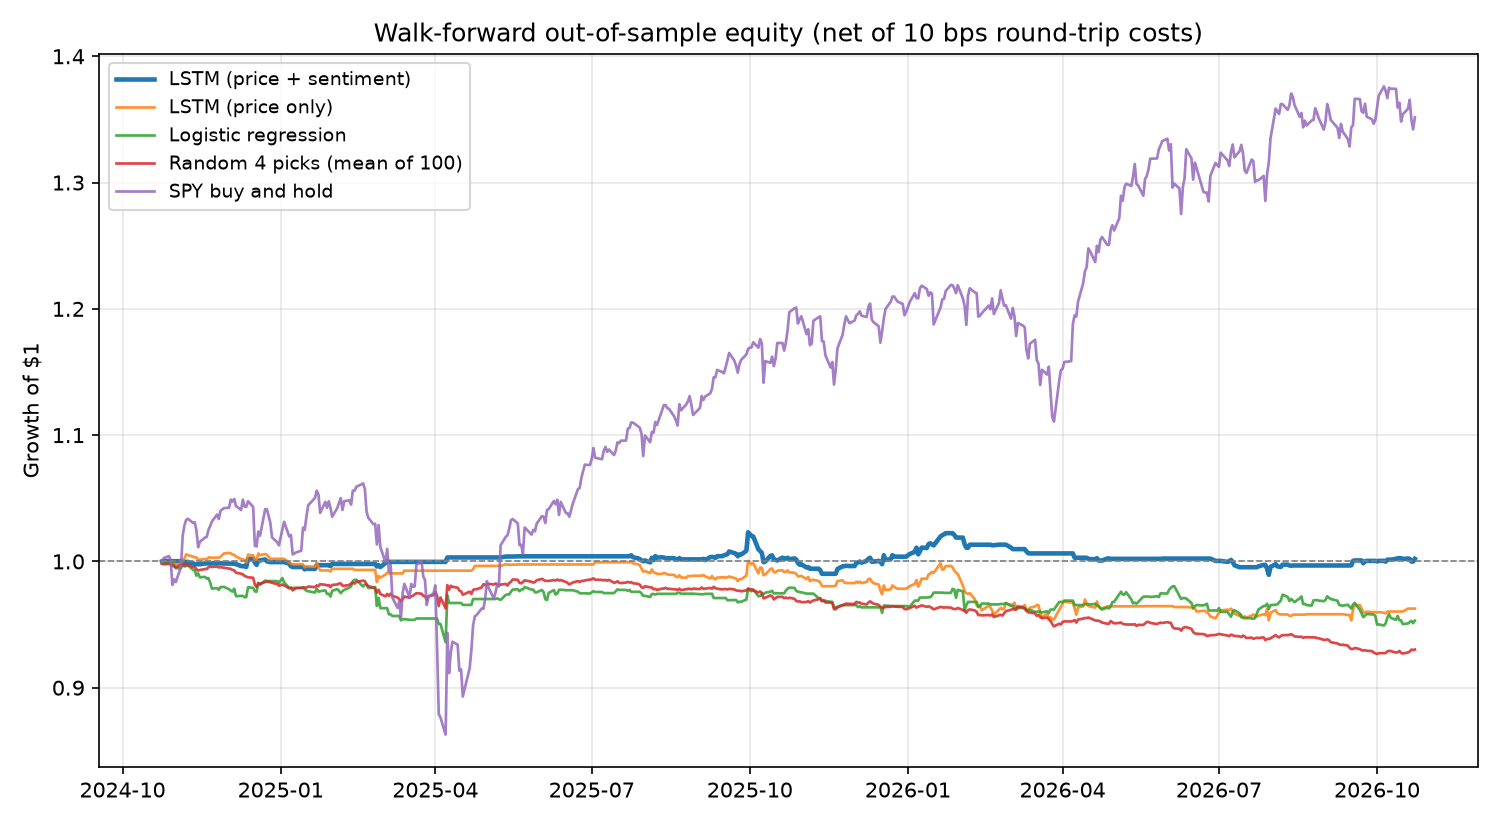
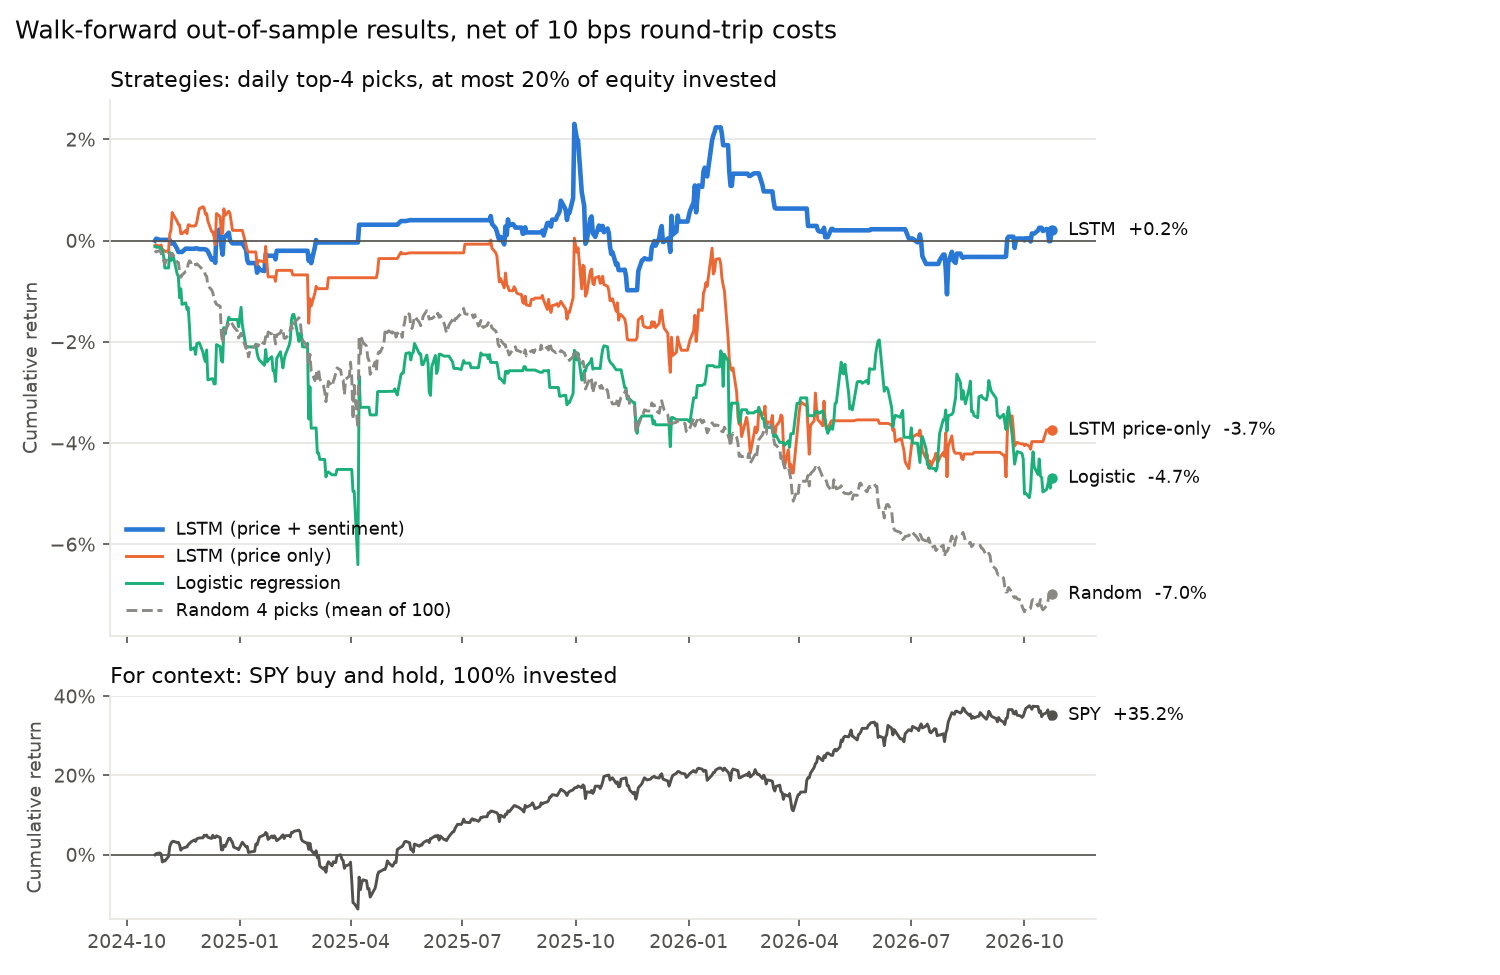
Split equity chart into strategy and SPY panels, add confidence-decile diagnostic
Report now also saves daily return series and out-of-sample predictions so
charts can be redrawn without retraining. Re-run reproduced all metrics exactly.

diff --git a/src/stockbot/reports.py b/src/stockbot/reports.py
@@ -13,6 +13,7 @@ import matplotlib
 matplotlib.use("Agg")
 import matplotlib.pyplot as plt  # noqa: E402
 import pandas as pd  # noqa: E402
+from matplotlib.ticker import PercentFormatter  # noqa: E402
 
 LABELS = {
     "lstm": "LSTM (price + sentiment)",
@@ -70,29 +71,145 @@ def metrics_table(metrics: dict[str, dict[str, Any]]) -> str:
     return "\n".join(lines)
 
 
+SHORT = {
+    "lstm": "LSTM",
+    "lstm_no_sentiment": "LSTM price-only",
+    "logreg": "Logistic",
+    "random": "Random",
+    "spy": "SPY",
+}
+STRATEGIES = ("lstm", "lstm_no_sentiment", "logreg", "random")
+COLORS = {
+    "lstm": "#2a78d6",
+    "lstm_no_sentiment": "#eb6834",
+    "logreg": "#1baf7a",
+    "random": "#8a8984",
+    "spy": "#52514e",
+}
+INK, MUTED, GRID = "#0b0b0b", "#52514e", "#e6e5e1"
+
+
+def _style(ax: plt.Axes) -> None:
+    ax.spines[["top", "right"]].set_visible(False)
+    ax.spines[["left", "bottom"]].set_color(GRID)
+    ax.tick_params(colors=MUTED, labelsize=9)
+    ax.grid(axis="y", color=GRID, linewidth=0.8)
+    ax.set_axisbelow(True)
+
+
+def _cumulative(daily: pd.Series) -> pd.Series:
+    out = (1 + daily).cumprod() - 1
+    out.index = pd.to_datetime(out.index)
+    return out * 100
+
+
+def _end_labels(ax: plt.Axes, ends: dict[str, tuple[pd.Timestamp, float]], min_gap: float) -> None:
+    """Direct-label each line at its last point, nudging labels apart so they don't collide."""
+    placed: list[float] = []
+    for key, (x, y) in sorted(ends.items(), key=lambda kv: -kv[1][1]):
+        ly = min(y, placed[-1] - min_gap) if placed else y
+        placed.append(ly)
+        ax.annotate(
+            f"{SHORT[key]}  {y:+.1f}%",
+            xy=(x, ly),
+            xytext=(8, 0),
+            textcoords="offset points",
+            va="center",
+            fontsize=8.5,
+            color=INK,
+            annotation_clip=False,
+        )
+
+
 def plot_equity(curves: dict[str, pd.Series], path: Path) -> None:
-    fig, ax = plt.subplots(figsize=(10, 5.5), dpi=150)
-    for key in LABELS:
+    """Strategies on their own scale; SPY in a separate panel so it doesn't flatten them."""
+    fig, (top, bottom) = plt.subplots(
+        2, 1, figsize=(10, 6.5), dpi=150, sharex=True, gridspec_kw={"height_ratios": [2.4, 1]}
+    )
+    ends = {}
+    for key in STRATEGIES:
         if key not in curves:
             continue
-        s = curves[key]
-        equity = (1 + s).cumprod()
-        equity.index = pd.to_datetime(equity.index)
-        style = {"linewidth": 2.2} if key == "lstm" else {"linewidth": 1.3, "alpha": 0.85}
-        ax.plot(equity.index, equity.to_numpy(), label=LABELS[key], **style)
-    ax.axhline(1.0, color="grey", linewidth=0.8, linestyle="--")
-    ax.set_title("Walk-forward out-of-sample equity (net of 10 bps round-trip costs)")
-    ax.set_ylabel("Growth of $1")
-    ax.grid(alpha=0.3)
-    ax.legend(loc="upper left", fontsize=9)
+        cum = _cumulative(curves[key])
+        lw = 2.2 if key == "lstm" else 1.4
+        ls = "--" if key == "random" else "-"
+        top.plot(cum.index, cum.to_numpy(), color=COLORS[key], lw=lw, ls=ls, label=LABELS[key])
+        top.plot(cum.index[-1], cum.iloc[-1], "o", color=COLORS[key], ms=4)
+        ends[key] = (cum.index[-1], float(cum.iloc[-1]))
+    top.axhline(0, color=MUTED, lw=0.8)
+    lo, hi = top.get_ylim()
+    _end_labels(top, ends, min_gap=(hi - lo) * 0.07)
+    top.set_title(
+        "Strategies: daily top-4 picks, at most 20% of equity invested",
+        loc="left",
+        fontsize=10.5,
+        color=INK,
+    )
+    top.set_ylabel("Cumulative return", color=MUTED, fontsize=9)
+    top.legend(loc="lower left", fontsize=8.5, frameon=False, labelcolor=INK)
+
+    if "spy" in curves:
+        spy = _cumulative(curves["spy"])
+        bottom.plot(spy.index, spy.to_numpy(), color=COLORS["spy"], lw=1.4)
+        bottom.plot(spy.index[-1], spy.iloc[-1], "o", color=COLORS["spy"], ms=4)
+        _end_labels(bottom, {"spy": (spy.index[-1], float(spy.iloc[-1]))}, min_gap=0)
+        bottom.axhline(0, color=MUTED, lw=0.8)
+    bottom.set_title(
+        "For context: SPY buy and hold, 100% invested", loc="left", fontsize=10.5, color=INK
+    )
+    bottom.set_ylabel("Cumulative return", color=MUTED, fontsize=9)
+
+    for ax in (top, bottom):
+        _style(ax)
+        ax.yaxis.set_major_formatter(PercentFormatter(decimals=0))
+    fig.suptitle(
+        "Walk-forward out-of-sample results, net of 10 bps round-trip costs",
+        x=0.01,
+        ha="left",
+        fontsize=12,
+        color=INK,
+    )
+    fig.tight_layout(rect=(0, 0, 0.86, 1))
+    fig.savefig(path, facecolor="white")
+    plt.close(fig)
+
+
+def decile_returns(preds: pd.DataFrame, model: str = "lstm") -> pd.DataFrame:
+    """Mean next-session open-to-close return by each day's p_up decile (10 = most confident)."""
+    p = preds[preds["model"] == model].copy()
+    p["decile"] = (
+        p.groupby("session_date")["p_up"].rank(pct=True, method="first").mul(10).apply(math.ceil)
+    )
+    g = p.groupby("decile")["next_oc_ret"]
+    out = pd.DataFrame({"mean": g.mean(), "se": g.std() / g.count().pow(0.5), "n": g.count()})
+    return out * [1e4, 1e4, 1]
+
+
+def plot_deciles(preds: pd.DataFrame, path: Path) -> None:
+    d = decile_returns(preds)
+    fig, ax = plt.subplots(figsize=(10, 4.2), dpi=150)
+    ax.bar(d.index, d["mean"], width=0.7, color=COLORS["lstm"], edgecolor="white", linewidth=2)
+    ax.errorbar(d.index, d["mean"], yerr=1.96 * d["se"], fmt="none", ecolor=MUTED, lw=1, capsize=3)
+    ax.axhline(0, color=MUTED, lw=0.8)
+    ax.set_xticks(d.index, [f"D{i}" for i in d.index])
+    ax.set_xlabel("LSTM p_up decile within each session (D10 = most confident)", color=MUTED)
+    ax.set_ylabel("Mean next open-to-close return (bps)", color=MUTED, fontsize=9)
+    ax.set_title(
+        "Next-session return by model confidence, out of sample (bars: mean, whiskers: 95% CI)",
+        loc="left",
+        fontsize=11,
+        color=INK,
+    )
+    _style(ax)
     fig.tight_layout()
-    fig.savefig(path)
+    fig.savefig(path, facecolor="white")
     plt.close(fig)
 
 
 def write_backtest_report(
     metrics: dict[str, dict[str, Any]],
     curves: dict[str, pd.Series],
+    preds: pd.DataFrame,
     *,
     run_id: str,
     cfg: dict[str, Any],
@@ -106,6 +223,9 @@ def write_backtest_report(
     config_text = Path(cfg["_path"]).read_text()
 
     plot_equity(curves, out_dir / f"{stem}.png")
+    plot_deciles(preds, out_dir / f"{stem}-deciles.png")
+    pd.DataFrame(curves).to_csv(out_dir / f"{stem}-daily.csv")
+    preds.to_csv(out_dir / f"{stem}-predictions.csv.gz", index=False)
     (out_dir / f"{stem}.json").write_text(
         json.dumps(
             {
@@ -132,6 +252,8 @@ def write_backtest_report(
         metrics_table(metrics),
         "",
         f"![equity curve]({stem}.png)",
+        "",
+        f"![return by confidence decile]({stem}-deciles.png)",
         "",
         "## Known limitations",
         "",

diff --git a/tests/test_pipeline.py b/tests/test_pipeline.py
@@ -10,6 +10,7 @@ import re
 import tomllib
 from pathlib import Path
 
+import pandas as pd
 import pytest
 import torch
 
@@ -47,13 +48,19 @@ def populated(conn, make_bars, add_bars):
 
 
 def test_backtest_and_report(populated, small_cfg, tmp_path):
-    metrics, curves = run_backtest(populated, small_cfg, torch.device("cpu"))
+    metrics, curves, preds = run_backtest(populated, small_cfg, torch.device("cpu"))
     assert set(metrics) == {"lstm", "lstm_no_sentiment", "logreg", "random", "spy"}
     assert metrics["lstm"]["n_trades"] > 0
     assert 0 <= metrics["lstm"]["accuracy"] <= 1
 
     report = write_backtest_report(
-        metrics, curves, run_id="lstm-test", cfg=small_cfg, git_sha="abc123", out_dir=tmp_path
+        metrics,
+        curves,
+        preds,
+        run_id="lstm-test",
+        cfg=small_cfg,
+        git_sha="abc123",
+        out_dir=tmp_path,
     )
     text = report.read_text()
     for needle in (
@@ -69,6 +76,9 @@ def test_backtest_and_report(populated, small_cfg, tmp_path):
     ):
         assert needle in text
     assert report.with_suffix(".png").stat().st_size > 0
+    stem = report.with_suffix("")
+    assert Path(f"{stem}-deciles.png").stat().st_size > 0
+    assert set(pd.read_csv(f"{stem}-daily.csv", index_col=0).columns) == set(curves)
     payload = json.loads(report.with_suffix(".json").read_text())
     assert payload["seed"] == 42 and payload["git_sha"] == "abc123"
 

diff --git a/src/stockbot/backtest.py b/src/stockbot/backtest.py
@@ -169,8 +169,8 @@ def spy_returns(conn: sqlite3.Connection, benchmark: str, sessions: np.ndarray) 
 
 def run_backtest(
     conn: sqlite3.Connection, cfg: dict[str, Any], device: torch.device, *, ablation: bool = True
-) -> tuple[dict[str, dict], dict[str, pd.Series]]:
-    """Returns (metrics per model, daily return series per model)."""
+) -> tuple[dict[str, dict], dict[str, pd.Series], pd.DataFrame]:
+    """Returns (metrics per model, daily return series per model, out-of-sample predictions)."""
     scfg, seed = cfg["strategy"], cfg["seed"]
     preds = walk_forward_predictions(load_features(conn), cfg, device, ablation=ablation)
     sessions = np.sort(preds["session_date"].unique())
@@ -185,4 +185,4 @@ def run_backtest(
     curves["random"], metrics["random"] = random_baseline(preds, sessions, scfg, seed)
     curves["spy"] = spy_returns(conn, cfg["benchmark"], sessions)
     metrics["spy"] = summarize(curves["spy"], None, None, seed)
-    return metrics, curves
+    return metrics, curves, preds

diff --git a/src/stockbot/cli.py b/src/stockbot/cli.py
@@ -205,11 +205,12 @@ def backtest_cmd(
         set_seed(cfg["seed"])
         device = pick_device(cfg.get("device", "auto"))
         log.info("seed %d, device %s", cfg["seed"], device)
-        metrics, curves = run_backtest(conn, cfg, device, ablation=not no_ablation)
+        metrics, curves, preds = run_backtest(conn, cfg, device, ablation=not no_ablation)
         run_id = f"lstm-{datetime.now(NY):%Y%m%d-%H%M%S}"
-        return [
-            str(write_backtest_report(metrics, curves, run_id=run_id, cfg=cfg, git_sha=git_sha()))
-        ]
+        report = write_backtest_report(
+            metrics, curves, preds, run_id=run_id, cfg=cfg, git_sha=git_sha()
+        )
+        return [str(report)]
 
     _run("backtest", config, body)
 

diff --git a/README.md b/README.md
@@ -4,8 +4,21 @@ A daily S&P 500 direction model: a 2-layer LSTM over 20 sessions of price featur
 Finnhub headline sentiment (VADER), validated with a leakage-checked walk-forward backtest
 against logistic, random, and SPY baselines, and executed on the **Alpaca paper** API.
 
-> Results below are produced by `stockbot backtest` and reported as-is, including
-> confidence intervals. No numbers in this README were tuned toward a target.
+**Highlights**
+
+- End-to-end pipeline: data ingestion (Alpaca, Finnhub), SQLite store, 13 features, PyTorch
+  LSTM, walk-forward backtest, signal generation, and paper order execution, all from one
+  Typer CLI.
+- Out-of-sample evaluation only: 8 walk-forward folds over 2 years, a 5-session embargo,
+  train-only normalization, and automated look-ahead checks that block training on failure.
+- Honest benchmarking: logistic regression, 100 random-pick runs, an ablation without
+  sentiment, SPY, confidence intervals on every headline number, and a reproducible seed
+  (a re-run reproduces every metric exactly).
+- Paper-only by construction: the broker client refuses any non-paper endpoint, the bot
+  cannot open a short, and orders are idempotent.
+
+> Results below are produced by `stockbot backtest` and reported as-is. No numbers in this
+> README were tuned toward a target.
 
 ## Results
 
@@ -25,19 +38,29 @@ Walk-forward out-of-sample test, **2024-10-24 to 2026-10-23** (501 sessions, 8 f
 
 **What this shows**
 
-- **No detectable edge.** 50.8% of out-of-sample sessions closed above their open, so the
-  LSTM's 50.5% accuracy (CI 50.1% to 51.0%) is no better than always guessing "up".
-- **Flat after costs.** The LSTM made +0.20% over two years. Its mean return per trade
-  (+0.011%) has a 95% interval that spans zero. SPY returned +35% over the same period.
-- **Selectivity limited losses.** The 0.55 confidence threshold cut the LSTM to about one
-  trade a day, and it lost less than the logistic baseline (-4.7%), the price-only LSTM
-  (-3.7%), and random picks (-7.0%). These gaps sit inside the confidence intervals.
-- **Sentiment ablation is inconclusive.** Adding headline sentiment moved mean return from
-  -0.086% to +0.011% per trade, but the intervals overlap. With one year of news, most
+- **The LSTM was the only strategy that didn't lose money after costs.** It finished at
+  +0.20% with a -3.3% max drawdown, against -3.7% for the price-only LSTM, -4.7% for logistic
+  regression, and -7.0% for random picks.
+- **Its edge is not statistically significant.** Accuracy is 50.5% (CI 50.1% to 51.0%) against
+  a 50.8% base rate of up sessions, and the mean return per trade (+0.011%) has a 95% interval
+  that spans zero. The gaps between strategies sit inside those intervals.
+- **The 0.55 confidence threshold is doing the work.** It kept the LSTM out of the market on
+  58% of sessions (about one trade a day versus four for random picks), which is why it
+  lost the least.
+- **Sentiment helped on point estimates only.** Adding headline sentiment moved mean return
+  per trade from -0.086% to +0.011%, but the intervals overlap. With one year of news, most
   training windows contain no headlines.
-- The final model's validation loss is 0.6931 (= ln 2), meaning it learned roughly the base
-  rate. On 2026-10-26 no ticker cleared the 0.55 threshold (top: MRK at 0.52), so the bot
-  placed no orders.
+- **Not comparable with SPY.** SPY returned +35% fully invested and held overnight; the
+  strategy holds at most 20% of equity, only between the open and the close.
+
+**Diagnostic: return by model confidence**
+
+![Return by LSTM confidence decile](docs/img/backtest-deciles.png)
+
+Each session's 100 stocks are split into deciles by the LSTM's `p_up`. If the model ranked
+stocks well, the bars would rise from D1 to D10. They don't: D10 earns about the same as the
+average stock, which matches the accuracy numbers above. This is the main thing a better
+feature set or label would have to fix.
 
 Daily open-to-close direction for large caps is close to a coin flip. This pipeline is built
 to measure that honestly: walk-forward folds, an embargo, train-only normalization, and
